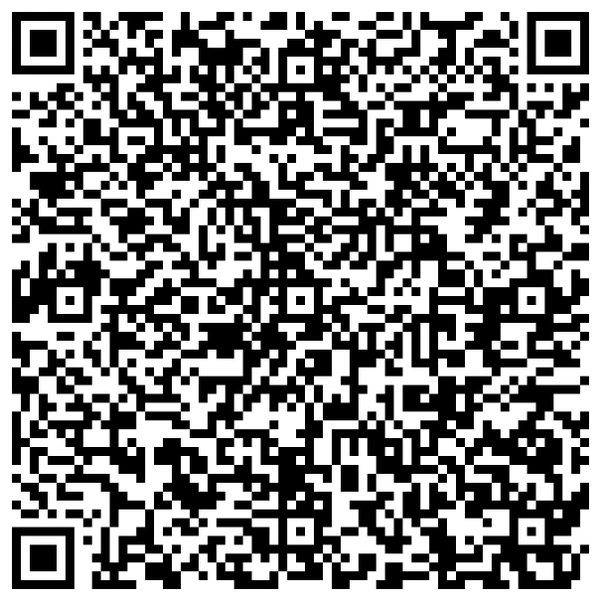
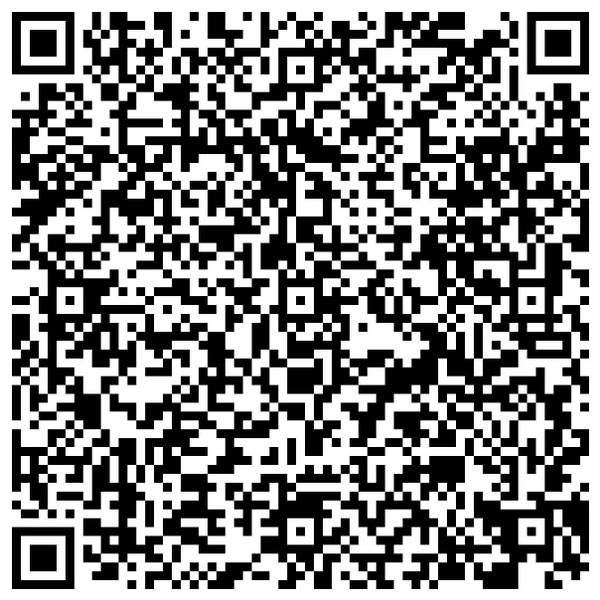
マイルCSの予約番号を入れかえた
上げ直したぶんに合わせて P79T4K4P → TZLG8C7K。QRも新しいものにした。
レース・日付・チケットの絵・期限は変わらない。

diff --git a/js/afro-ticket.js b/js/afro-ticket.js
@@ -29,7 +29,7 @@ var TICKETS = [
     date: '2026-11-22',
     place: '京都競馬場',
     course: '芝 1600m',
-    no: 'P79T4K4P',
+    no: 'TZLG8C7K',
     until: '2026-11-21 23:59',
     paper: 'フォト用紙L・カラー',
     qr: 'images/ticket/2026-11-22_qr.webp',
